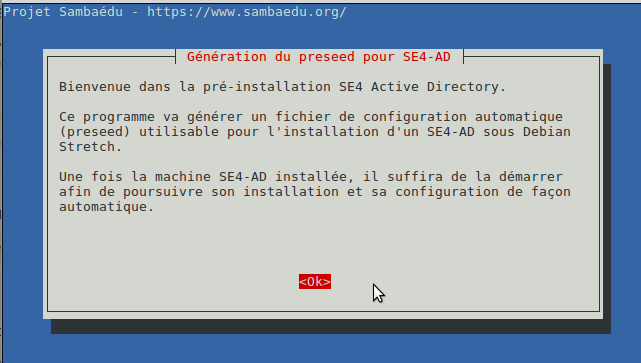
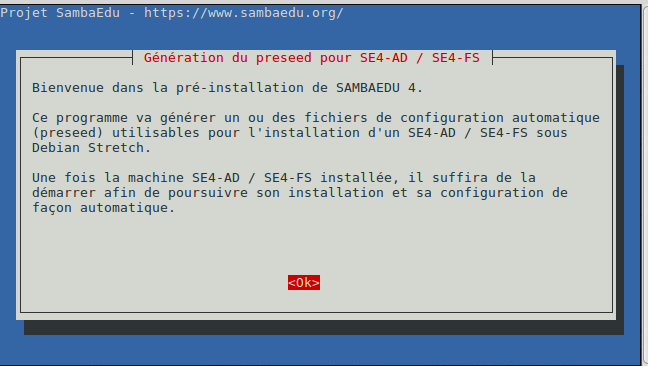
update doc for se4fs & add pictures

Changed region(s): [[0.0, 0.0, 1.0, 1.0], [0.4368, 0.7273, 0.5304, 0.8182]]

diff --git a/doc-installation/gen-preseed-se4AD.rst b/doc-installation/gen-preseed-se4AD.rst
@@ -148,7 +148,7 @@ Si vous optez pour cette solution, il suffit d'effectuer un boot ``PXE`` et de c
 
 puis ``Installation`` et enfin ``Netboot Debian Stretch SE4-AD (amd64)``. Seule l'architecture ``amd64`` est supportée.
 
-.. figure:: images/se4_preseed_boot2.png
+.. figure:: images/se4_preseed_tftp_install.png
 
 
 Déroulement de la suite de l'installation
